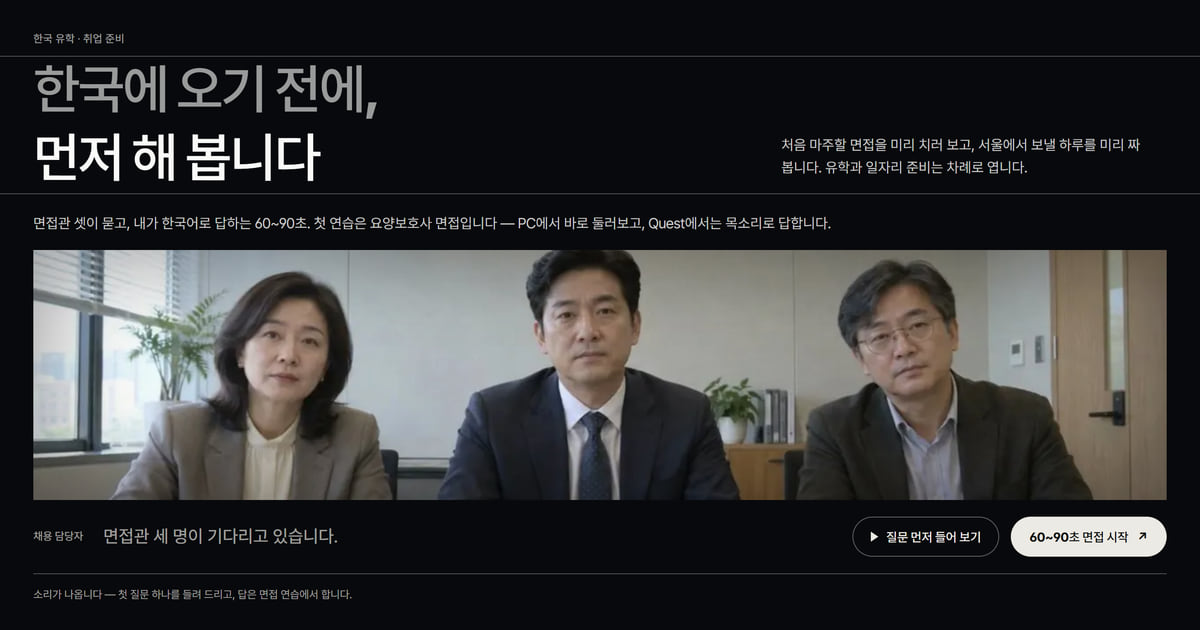
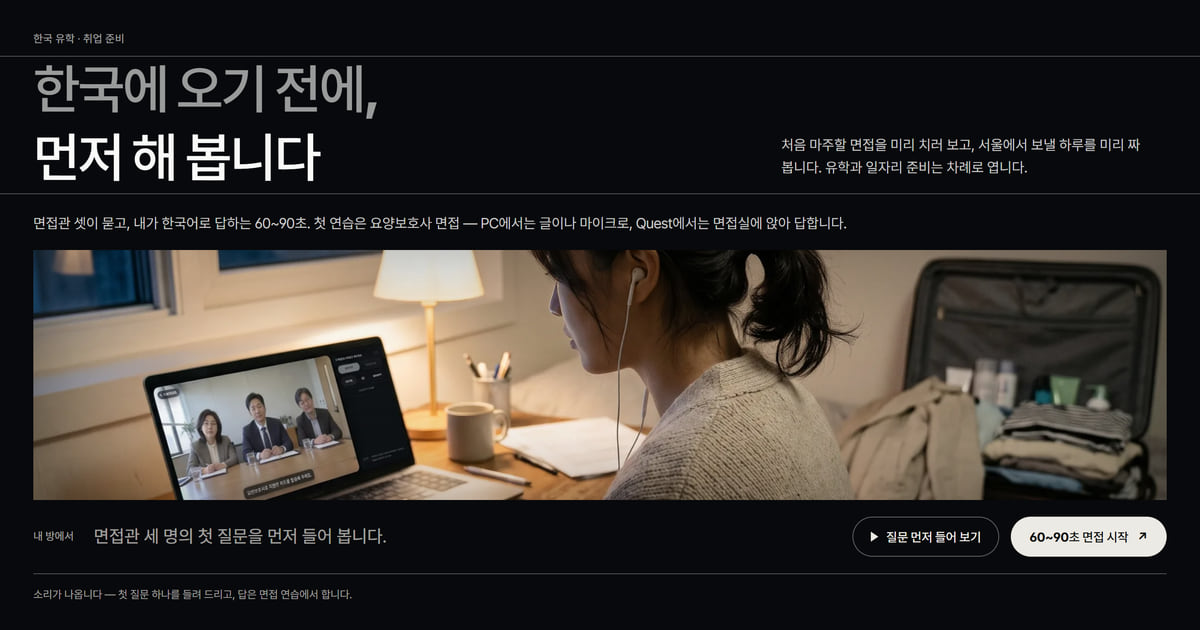
PATH 첫 화면 다음 판(11-14 · 앞 공개 fa0c009 검수 path-scene-1113b의 P2): 영어 면접 줄 · 쉬는 줄을 줄여 390에서 4줄 · 1줄, 1440에서 한 줄(공개 전과 같은 쪽 길이), 영어 그림 설명 「a young woman」, 공유 카드 path-ko · path-en을 새 첫 화면(「집에서 먼저」)으로 다시 굽고 og:image:alt를 맞춤(옛 카드는 면접관 셋의 정면 얼굴), 같은 카드를 빌려 쓰는 /try/travel/은 그림 주소 표식만. 높이 820px 이하 데스크톱 창은 무대가 3

diff --git a/en/path/index.html b/en/path/index.html
@@ -10,13 +10,13 @@
 <link rel="canonical" href="https://synk.im/en/path/">
 <link rel="alternate" hreflang="ko" href="https://synk.im/path/"><link rel="alternate" hreflang="en" href="https://synk.im/en/path/"><link rel="alternate" hreflang="x-default" href="https://synk.im/path/">
 <meta property="og:type" content="website"><meta property="og:url" content="https://synk.im/en/path/"><meta property="og:title" content="SYNK PATH — Before you come to Korea, try it first"><meta property="og:description" content="At SYNK PATH you rehearse the first interview you will face and plan a day in Seoul before you come. Caregiver interview practice and a day in Seoul are open now; study and job preparation open one at a time.">
-<meta property="og:image" content="https://synk.im/assets/v10/og/path-en.jpg?v=3c1f784cb390"><meta property="og:image:width" content="1200"><meta property="og:image:height" content="630"><meta property="og:image:alt" content="The SYNK PATH page: “Before you come to Korea, try it first” above three interviewers waiting at a meeting-room table"><meta name="twitter:card" content="summary_large_image">
+<meta property="og:image" content="https://synk.im/assets/v10/og/path-en.jpg?v=19de6ece8ee6"><meta property="og:image:width" content="1200"><meta property="og:image:height" content="630"><meta property="og:image:alt" content="The SYNK PATH page: “Before you come to Korea, try it first” above a young woman rehearsing the interview on a laptop in her own room"><meta name="twitter:card" content="summary_large_image">
 <link rel="icon" type="image/png" sizes="16x16" href="/assets/favicon-synk-20260919-16.png"><link rel="icon" type="image/png" sizes="32x32" href="/assets/favicon-synk-20260919-32.png"><link rel="icon" type="image/png" sizes="48x48" href="/assets/favicon-synk-20260919-48.png">
 <link rel="preload" href="/assets/v10/suit-v10.woff2" as="font" type="font/woff2" crossorigin>
 <link rel="stylesheet" href="/assets/v10/site.css?v=b67abdbcb510">
 <script>document.documentElement.classList.replace('no-js','js')</script>
 <script type="module" src="/assets/v10/site.js?v=cb64453758c6"></script>
-<link rel="stylesheet" href="/assets/v10/path-v12.css?v=47a7d3dbec42">
+<link rel="stylesheet" href="/assets/v10/path-v12.css?v=5e7a385a68a3">
 <script type="module" src="/assets/v10/path-v12.js?v=dc5017af64b5"></script>
 <link rel="stylesheet" href="/assets/v10/skeleton.css?v=2e2eb38a5b11">
 <script type="module" src="/assets/v10/skeleton.js?v=7dfcb83d9f77"></script>
@@ -36,12 +36,12 @@
 <div class="k-top"><h1 class="k-claim k-spec" id="p-title"><span class="dim">Before you come to Korea,</span> <span>try it first</span></h1>
 <p class="k-top-side" data-intro>Rehearse your first interview and plan a day in Seoul. Study-abroad and job preparation open next, one at a time.</p></div>
 <h2 class="sr-only" id="vr-title">Your first interview, here first</h2>
-<p class="k-body k-hero-line">Three interviewers ask and you answer in Korean: a 60–90 second practice. The first is a caregiver interview — type or speak your answers on a PC, or answer seated in the interview room on a Quest.</p>
-<div class="pa-stage" role="img" aria-label="The interview practice scene: before coming to Korea, she rehearses the interview on a laptop in her own room" data-stage><img class="pa-scene" src="/assets/v10/path-scene-home.webp" alt="" width="2048" height="1143" decoding="async" fetchpriority="high"><video class="pa-ask" playsinline preload="none" data-src="/path/assets/interview/film/strict-question-720p.mp4" aria-hidden="true"></video></div>
-<div class="pa-line"><span class="pa-who"><span class="pa-who-idle">In your room</span><span class="pa-who-ask">Recruiter</span></span><p class="pa-say is-wait" data-line aria-live="polite">First, hear the opening question from the three interviewers.</p>
+<p class="k-body k-hero-line">Three interviewers ask and you answer in Korean: a 60–90 second practice. The first is a caregiver interview — type or speak on a PC, or sit in the interview room on a Quest.</p>
+<div class="pa-stage" role="img" aria-label="Interview practice at home: before coming to Korea, a young woman rehearses the interview on a laptop in her own room" data-stage><img class="pa-scene" src="/assets/v10/path-scene-home.webp" alt="" width="2048" height="1143" decoding="async" fetchpriority="high"><video class="pa-ask" playsinline preload="none" data-src="/path/assets/interview/film/strict-question-720p.mp4" aria-hidden="true"></video></div>
+<div class="pa-line"><span class="pa-who"><span class="pa-who-idle">In your room</span><span class="pa-who-ask">Recruiter</span></span><p class="pa-say is-wait" data-line aria-live="polite">Start with the interviewers’ first question.</p>
 <div class="pa-acts"><button class="pa-btn pa-btn-ghost" type="button" data-hear hidden><span class="pa-tri" aria-hidden="true"></span>Hear the first question</button><a class="pa-btn pa-btn-ink" href="https://synk.im/path/interview/film/rehearsal.html">Start the interview (Korean) <span class="arr" aria-hidden="true">↗</span></a></div></div>
 <p class="pa-room-foot"><span>This plays sound — you hear one question here and answer it in the interview practice.</span></p>
-<script type="application/json" data-room>{"lang":"en","wait":"First, hear the opening question from the three interviewers.","question":"요양보호사로 지원한 이유를 말씀해 주세요.","gloss":"Tell us why you applied to be a caregiver.","after":"Now it is your turn — answer in Korean in the interview practice."}</script></div></section>
+<script type="application/json" data-room>{"lang":"en","wait":"Start with the interviewers’ first question.","question":"요양보호사로 지원한 이유를 말씀해 주세요.","gloss":"Tell us why you applied to be a caregiver.","after":"Now it is your turn — answer in Korean in the interview practice."}</script></div></section>
 <section class="pa-day k-pa-day" id="travel" aria-labelledby="plan-title" data-day><span id="path-visit" class="sr-only" aria-hidden="true"></span>
 <div class="pa-map" aria-hidden="true" data-map><div class="pa-sample"><svg class="pa-sample-map" viewBox="0 0 380.5 507.4" preserveAspectRatio="xMidYMid meet" aria-hidden="true" focusable="false"><path class="k" d="M238.5 446.3L266 438.6L318.6 422.7L312.8 398.9L309.2 382.2L303.1 355.4L300.2 337.5L284.1 336L273.7 303.9L249.8 310.4L240.5 313.1L238.8 313.5L240.2 318.3L246.2 338.1L247.4 342.2L211.9 353.4L238.5 446.3Z"/><path class="f" d="M31.5 253.7L36.2 266.9L40.1 270.7L42.8 280.9L51.4 279.7L59.3 282L61.9 289.7L100.3 282.6L107.2 316.4L117.6 337.5L122 342.8M6.9 259.7L4.5 233.8L-1.3 205.4M26.1 343.3L29.5 350L32.7 355.9L40.5 352.4L50.5 347.2L59.4 368.7M7.7 353.2L26.1 343.3M5.8 183.4L-10.9 188L-5 206.4L-1.3 205.4L24.1 196.8M5.6 -0.8L7.7 -5.4L12.1 -36.5L23.5 -77.8M317 -31.2L342 -30.9L339.1 -61.4L358.3 -62.3M40.8 0.2L35.6 -6L39.7 -51.3L51.2 -51L54.6 -68.3M227.9 407.2L221.5 408.4M227.9 407.2L234.7 405.4M-60 242.5L-138.2 257.3M-60 242.5L-55.8 254.6L-51.9 265.4L-46.9 279.2L-41.1 294.6L-20.6 287.3L-17 297.2L-6.3 293M-51.9 265.4L-79.7 274.8L-75.8 285.8L-70.5 287.6L-46.9 279.2M-55.8 254.6L-76.1 262.3L-83.9 265.1M-20.6 287.3L-24.1 276.7L-14.7 272.9M312 -78L307.9 -70.9L296.9 -66.8L296.8 -59.1L288.1 -59.2L286 -36.5M375 107.1L371 105.3L368 106.8L367.2 110.3L368.3 121.1L371 125.2L372.6 129.6L372.6 133.6L371.7 138.5L368.9 144L367.4 149.3L367.5 151.9L367.7 155.4L370.4 162.5L375.1 167L379.7 170L387.7 170.5L396.7 168.4L400.2 166.7L405.9 166.8L412.8 169L419.4 169.1L423.8 167.4L426 164.6L425.3 144.8L421.9 138.2L414.3 138.1L413.8 106.5L375 107.1M413.8 106.5L423.6 109.7M447.8 103.5L431.8 101.5M439.7 142.9L440.5 170.7L440.9 180.7L437.2 180.7L437.4 191.6L437.5 202.1L421.7 202L421.6 210.5M429.7 106.9L423.6 109.7M418.8 179L419.4 201.8L421.7 202M421.9 138.2L419.9 119.3L420.4 114.7L423.7 112.4L429.7 109.5M428.7 170.7L440.5 170.7M437.4 191.6L443.1 191.5L445 193.1L445.5 207.1L446.3 208.5L447.7 208.5L448.7 207L447.9 186.3L448.9 185.2L452.7 185M421.6 210.5L421.9 227.8M371 105.3L367.3 101.6L366.9 95.6M414.3 138.1L403.8 148L400.5 145.2L397.3 144.8L394.2 146.4L391.4 143.8L387.9 143.5L383.6 145.2L381.3 148L380.9 151.4L367.5 151.9M394.2 146.4L393.7 149.4M421.9 227.8L422.2 247.7M426 164.6L428.7 170.7M-74.4 -4.3L-31.5 -10.1L-34.1 -35.9L-28.4 -51L-68.8 -66.6L-79.8 -139.9M-110 -27.4L-77.5 -31L-34.1 -35.9M431.8 101.5L429.5 101.6L429.7 106.9L429.7 109.5L430 127.7L434.4 127.7L434.9 143.3L439.7 142.9M-41.1 294.6L-42.4 296.6L-56.4 301.8M-30.8 338.9L-32 339.3L-69.7 353L-78.3 356.1L-110.9 367.9M2.4 326.8L-22.1 335.7L-24.2 336.5M-24.2 336.5L-28.4 338L-30.8 338.9M-32 339.3L-28.1 349.3L-25 351.5L-19.7 357.4L-13.6 374.5L-13.8 375.7L-46.8 391.4L-50 391.3L-76 371.7M-22.1 335.7L-23.2 332.6M-22.1 335.7L-21 339M-46.8 391.4L-78.2 406.2L-81.5 406.6L-88.6 405.1M121 587.8L122.1 587.1L129.5 580.6L130 579.7L131.3 577.3L136.8 573.3L144.1 569.4L144.5 567.6L143 563.8L137.3 565.1L134.5 557.6L137.9 554.5L136 553.3L134 554.2L131.6 547.9L130.7 549.3L130.1 551.8L130.7 554L131.4 558.2L131.1 565.6L126.4 567.8L125.7 569.9L127.6 575.7L130 579.7M131.6 547.9L129.8 535.8"/><path class="m" d="M-89.9 457.6L-58.6 479.4L-27.6 524.6L-25.6 527.9L-4.2 554.2L-0.4 558.2L25.7 582.5L32.2 587.4L46.1 600.7L50.3 604.5L71.6 623.5L81.7 633.8L94 644.7L110.4 657.5L122.1 668.2L150.8 692L159.2 698.5L170.5 711.1L174.5 715.8L187.6 736.7L203.9 760.8L214.5 779.5L231.7 818.4L239.8 838.9L241.8 843.5L255.8 878L257 880.4L257.3 881.3L258 882.8L262.9 893.3L270.4 907.8L281.4 930.2L286.4 934.5L292.8 937L298 937.4L307.9 937.7M-17.5 265.7L6.9 259.7L31.5 253.7L44.5 250.5L85.1 240.5L94.4 242.2L101.6 243L103.6 243.3L152.6 231.5M-81.6 74.2L-50.3 156.2L-31.5 217.7L-26.8 233.2L-17.5 265.7L-14.7 272.9L-6.3 293L-2.5 302.5L-2 304.8L2.4 326.8L7.7 353.2L11.4 376.2L21.8 401M81.7 633.8L89.2 631.4L132 603L148.6 590.6L162.1 582.3L193 573.6L230 563.3L255.4 556.3M246.7 496.2L389.2 468L399.8 465.9L415.5 462.6L454.4 453.3L460.7 452.1L493.9 449.1L521.1 446.8L548 444.6L574.8 438.5M137.4 190.7L145.1 191.3L149.3 191.6L169.1 191.1L201.7 189.3L234 187.6M32.2 587.4L38.7 583.7L56 577.1L88.7 560.9M-25.6 527.9L-17 525.1L-3.8 513.1L15.8 502.8L32.3 494.7L43.2 495.1M-91 418.7L-80.3 422.2L-55.6 430.2M76.7 527.1L88.7 560.9L98 578.4M242.8 -387.8L243.7 -353.9L243.1 -321.1L241.7 -295L240.2 -286.9L238.9 -259.6L238.9 -227.4L238.1 -205.6L235.8 -181.6L235.3 -165.6L236.6 -144.2L234.7 -110.7L234 -95.5L233.5 -86.2L232.2 -71.4L230.2 -33L231.1 -2.8L230.7 28.4M78.8 37.2L62.9 33.4L48.1 30.9L-7.2 21.4L-29.5 20.1L-35.4 18.9M82 -52.5L132.4 -50.6L133.2 -74L138 -75.4L143.4 -74.8L157.2 -75.5L164.1 -81.9L165.3 -89.3L175.2 -90.4L185.6 -88.2L189.3 -87.1L196.9 -84.8M230.2 -33L286 -36.5L315.3 -38.3L317 -31.2L316.5 -3.4L315.9 28.9M329.9 27.6L357.9 -29.9L358.3 -62.3L356.9 -81.9L383 -82.5M331.2 329.9L298.6 331.1L295.5 324.5L292.3 315.7L288.4 254.2M-58.6 479.4L-54 477.1L-34.5 468.4L-29 469.4L-21.1 467.4M43.2 495.1L46.5 494.1L47 499.8L60.5 498.1M102.6 477.8L116.3 512M43.2 495.1L38.9 448.8L21.8 401M15.8 502.8L0.2 456.8L5.5 454.4L-5.1 412.7M-4.2 554.2L16.1 541.5L34.8 537.4L52.8 533.9L76.7 527.1L101.2 518.1L116.3 512L125.5 537M88.7 560.9L101.1 554.9L104.5 561.4M392.4 -147.3L395.3 -136.7L396.8 -128.4L400.9 -118.4L404.2 -114.3L407.4 -110.6L407.5 -100L402.6 -82.1L410.8 -50L393.7 -46.2L390.3 -46.2L388.3 -61L383 -82.5L382.9 -93L384.4 -106.4L386.9 -136.1L392.4 -147.3L393.9 -159.4L403.5 -179L413.1 -198.8M366.9 95.6L448.4 93.6M316.5 -3.4L231.1 -2.8M127.4 162.8L168.5 163.1M169 153.9L168.5 163.1L169.1 191.1M403.9 395.7L403.8 403.9L403 423.1L399.8 465.9M403.8 403.9L423.9 403.2L424.1 389.3M389.2 468L399 524.3L429.2 520.4L431.7 533.6L432.9 548.1L428.7 553.7L442.9 556.6L465.3 551.7L467.4 564.3M232.7 147.8L245.6 148.3L269.7 147.8L283.6 147.5L285.2 147.5L300.7 147.2L341.9 146.4L351.8 146.3L354.5 147.8L355.9 149.8L357.4 215.1L357.8 248.8M80.6 -2.3L40.8 0.2L5.6 -0.8L-11 -0.3L-35.4 18.9M92.6 192.7L112.5 185.7M72.9 138.2L93.6 131M103.3 159.9L93.6 131L85.3 110.2L83.2 108.2L80.4 107.6L63.5 112.8L55.6 115.3L26.4 123.7M193 573.6L174.9 529.8L205.3 519.5L204.4 514.9L234 499.4M52.8 533.9L56.7 522.8L56.7 504.4L58.4 500.9L60.5 498.1M-35.4 18.9L-72.5 14.2L-149.2 8.3L-163.6 1L-187.6 -7.4L-196 -11.2L-212.7 -17.8L-226 -22.4L-262.2 -31.6L-291.2 -38.1L-363.2 -52.3L-368.7 -54.3L-373.2 -55.4M-35.4 18.9L-81.6 74.2M258.7 266.8L264.1 286.9L267.6 299.3L255.3 302.7L251.9 290.3L264.1 286.9M-0.4 558.2L-14.7 565.5M-27.6 524.6L-42.3 532.9M-21.1 467.4L-9.6 503.9L-7.1 506L-3.8 513.1M60.5 498.1L62 488.4L102.6 477.8M428.7 553.7L433.6 575.1L436.4 606.1M103.2 89.1L90.7 93.3L49.9 99.1L41.7 98.5L36.8 96.7L34.5 94.2L33 92.1L32.8 81.6L34.4 72.8L19.4 69.6L-29.5 20.1M302.2 215.8L302.7 251.8M235 217L302.2 215.8L357.4 215.1M230.7 28.4L230.6 58.4L232.7 147.8L234 187.6L235 217M235 217L238.7 241L240.2 253.6L245.6 272.8M234.1 252.4L234.6 256.1L234.1 259.1L209.3 276.5L195.9 283.5L191.1 284L185.8 281L145.1 191.3L149.3 191.6L150.1 193.7L153.7 201.6L159.4 214.2L160.7 217L165 226.5L168.4 234.2L168.9 235.3L170.7 239.3L183.9 268.9L186.2 274.2L190.8 275.3L197.1 271.6L197.5 272.3L198.9 274.6L210.7 267.6L211.6 267.1L212.5 266.5L232 253.7L234.1 252.4M269.3 125.3L269.7 147.8M230.6 58.4L241.8 58.2M34.4 72.8L39.3 73.1M39.3 73.1L41.5 52.7L48.1 30.9M285.2 147.5L285.3 52.6L287.2 49.5L289.4 48.5L296.6 48.5L298.5 49.5L300.3 51.8L300.7 147.2M92.6 192.7L72.9 138.2L63.5 112.8M103.3 159.9L112.5 185.7M123.5 153.3L103.3 159.9M405.5 272.7L446.1 272.6L446.2 289.4M405.1 248L405.5 272.7L405.5 291.6M139.6 509.8L146 523L168.1 519.4L166.5 506.5L139.6 509.8M-26.8 233.2L-49.8 239.7L-60 242.5M-31.5 217.7L-47.2 217.6L-50.7 218.8L-51.6 220.6L-51.6 222.1L-49.8 239.7M101.2 518.1L104.8 528.6M292.3 315.7L337.2 313.8"/><path class="M" d="M21.8 401L28.6 397.8L63.4 380.4L122 342.8L157.6 324.4L174.3 313.3L184.3 307.1M184.3 307.1L185.4 324.4L189.3 347.8L204.6 399.1L208.4 414.4L212.6 429.4L218.3 448.3L234 499.4L255.4 556.3L269.7 591L310.4 676.6M-20.2 420.1L-42.4 425.7L-55.6 430.2L-82.2 438.4L-90.7 440.4L-101.4 441.3M230.7 28.4L206 28.5L144.4 42L111.8 52L94 59.3M388.3 27.6L405.6 31.9L456.7 38.9M198.1 299.4L245.6 272.8L258.7 266.8L274 260.3L281.4 256.6L288.4 254.2L302.7 251.8L321.8 251L357.8 248.8L405.1 248L422.2 247.7L445.9 247.9L460.8 247.6L485.8 248L491.1 249L523.7 249.2L530.5 248.6M230.7 28.4L315.9 28.9L329.9 27.6L388.3 27.6M456.5 26.9L404.6 24.6L388.3 27.6M-89.9 457.6L-79 454.7L-58.4 446.9L-41.5 437L-31.4 430.9L-20.2 420.1M322.6 677.4L319.8 670.8L290.4 600.7L285.3 588.6L257.6 527.9L246.7 496.2L233.6 449.7L223.7 415.5L221.5 408.4L202.6 342.3L196.7 320.9L184.3 307.1M184.3 307.1L179.8 300.1L174.4 285.7L152.6 231.5L137.4 190.7L127.4 162.8L123.5 153.3L115.7 127.9L103.2 89.1L94 59.3L86.8 44L78.8 37.2L80.3 23.8L80.6 -2.3L82 -52.5L82.2 -63.3L83.8 -112.6L84.1 -152.8L85.1 -185.3L85.4 -207.4L86.4 -245.3L89.8 -328.5L90.3 -357.4L91.3 -416.6M-20.2 420.1L-5.1 412.7L21.8 401M184.3 307.1L198.1 299.4"/><path class="rc" data-route d="M114.1 344.6L117.6 337.5L122 342.8L157.6 324.4L174.3 313.3L184.3 307.1L196.7 320.9L202.6 342.3L221.5 408.4L227.9 407.2L234.7 405.4L266.4 386.3L266.4 386.3L234.7 405.4L227.9 407.2L221.5 408.4L202.6 342.3L196.7 320.9L184.3 307.1L198.1 299.4L245.6 272.8L240.2 253.6L238.7 241L226.7 231.3L226.7 231.3L238.7 241L235 217L234 187.6L232.7 147.8L230.6 58.4L204.9 58.5"/><path class="r" data-route d="M114.1 344.6L117.6 337.5L122 342.8L157.6 324.4L174.3 313.3L184.3 307.1L196.7 320.9L202.6 342.3L221.5 408.4L227.9 407.2L234.7 405.4L266.4 386.3L266.4 386.3L234.7 405.4L227.9 407.2L221.5 408.4L202.6 342.3L196.7 320.9L184.3 307.1L198.1 299.4L245.6 272.8L240.2 253.6L238.7 241L226.7 231.3L226.7 231.3L238.7 241L235 217L234 187.6L232.7 147.8L230.6 58.4L204.9 58.5"/></svg><div class="pa-sample-pins"><span class="sp-pin is-origin is-left" style="left:29.99%;top:67.92%"><span class="sp-mk"></span><span class="sp-tag"><span lang="ko">안국역</span> 10:00</span></span><span class="sp-pin is-left" style="left:70.01%;top:76.14%"><span class="sp-ic"><img src="/assets/v10/path-felt-palace.webp" alt="" width="128" height="100" loading="lazy" decoding="async"><span class="sp-n">1</span></span><span class="sp-tag"><b><span lang="ko">운현궁</span></b><span>10:08</span></span></span><span class="sp-pin is-left" style="left:59.57%;top:45.59%"><span class="sp-ic"><img src="/assets/v10/path-felt-tea.webp" alt="" width="128" height="128" loading="lazy" decoding="async"><span class="sp-n">2</span></span><span class="sp-tag"><b><span lang="ko">어니언 안국</span></b><span>11:02</span></span></span><span class="sp-pin is-plain is-left" style="left:53.83%;top:11.54%"><span class="sp-mk">3</span><span class="sp-tag"><b><span lang="ko">북촌 한옥마을</span></b><span>12:00</span></span></span></div></div><svg class="pa-live" data-map-svg preserveAspectRatio="none"></svg><div class="pa-pins" data-pins></div></div>
 <div class="pa-day-in"><div class="pa-copy"><p class="k-rule"><span>A day in Seoul · free</span></p>

diff --git a/path/index.html b/path/index.html
@@ -10,13 +10,13 @@
 <link rel="canonical" href="https://synk.im/path/">
 <link rel="alternate" hreflang="ko" href="https://synk.im/path/"><link rel="alternate" hreflang="en" href="https://synk.im/en/path/"><link rel="alternate" hreflang="x-default" href="https://synk.im/path/">
 <meta property="og:type" content="website"><meta property="og:url" content="https://synk.im/path/"><meta property="og:title" content="SYNK PATH — 한국에 오기 전에, 먼저 해 봅니다"><meta property="og:description" content="SYNK PATH에서는 처음 마주할 면접을 미리 치러 보고, 서울에서 보낼 하루를 미리 짜 봅니다. 요양보호사 면접 연습과 서울 하루는 지금 써 볼 수 있고, 유학과 일자리 준비는 차례로 엽니다.">
-<meta property="og:image" content="https://synk.im/assets/v10/og/path-ko.jpg?v=0c5a2dcf731d"><meta property="og:image:width" content="1200"><meta property="og:image:height" content="630"><meta property="og:image:alt" content="SYNK PATH 첫 화면 — 「한국에 오기 전에, 먼저 해 봅니다」와 회의실 탁자 앞에서 기다리는 면접관 세 명"><meta name="twitter:card" content="summary_large_image">
+<meta property="og:image" content="https://synk.im/assets/v10/og/path-ko.jpg?v=f4326ed84f65"><meta property="og:image:width" content="1200"><meta property="og:image:height" content="630"><meta property="og:image:alt" content="SYNK PATH 첫 화면 — 「한국에 오기 전에, 먼저 해 봅니다」와 한국에 오기 전 자기 방에서 노트북으로 면접을 연습하는 사람"><meta name="twitter:card" content="summary_large_image">
 <link rel="icon" type="image/png" sizes="16x16" href="/assets/favicon-synk-20260919-16.png"><link rel="icon" type="image/png" sizes="32x32" href="/assets/favicon-synk-20260919-32.png"><link rel="icon" type="image/png" sizes="48x48" href="/assets/favicon-synk-20260919-48.png">
 <link rel="preload" href="/assets/v10/suit-v10.woff2" as="font" type="font/woff2" crossorigin>
 <link rel="stylesheet" href="/assets/v10/site.css?v=b67abdbcb510">
 <script>document.documentElement.classList.replace('no-js','js')</script>
 <script type="module" src="/assets/v10/site.js?v=cb64453758c6"></script>
-<link rel="stylesheet" href="/assets/v10/path-v12.css?v=47a7d3dbec42">
+<link rel="stylesheet" href="/assets/v10/path-v12.css?v=5e7a385a68a3">
 <script type="module" src="/assets/v10/path-v12.js?v=dc5017af64b5"></script>
 <link rel="stylesheet" href="/assets/v10/skeleton.css?v=2e2eb38a5b11">
 <script type="module" src="/assets/v10/skeleton.js?v=7dfcb83d9f77"></script>

diff --git a/try/travel/index.html b/try/travel/index.html
@@ -12,13 +12,13 @@
 <meta property="og:url" content="https://synk.im/try/travel/">
 <meta property="og:title" content="나에게 맞는 서울의 하루 · SYNK PATH">
 <meta property="og:description" content="하고 싶은 것과 쓸 시간만 고르면, 서울 종로의 실제 장소로 하루를 짜 드려요.">
-<meta property="og:image" content="https://synk.im/assets/v10/og/path-ko.jpg?v=0c5a2dcf731d">
+<meta property="og:image" content="https://synk.im/assets/v10/og/path-ko.jpg?v=f4326ed84f65">
 <meta property="og:image:width" content="1200"><meta property="og:image:height" content="630">
 <meta property="og:image:alt" content="SYNK PATH 첫 화면 — 「한국에서 공부하고 일하며 사는 길을, 함께 준비합니다」와 종로 · 북촌 길 위에 그린 서울 하루 동선">
 <meta name="twitter:card" content="summary_large_image">
 <meta name="twitter:title" content="나에게 맞는 서울의 하루 · SYNK PATH">
 <meta name="twitter:description" content="하고 싶은 것과 쓸 시간만 고르면, 서울 종로의 실제 장소로 하루를 짜 드려요.">
-<meta name="twitter:image" content="https://synk.im/assets/v10/og/path-ko.jpg?v=0c5a2dcf731d">
+<meta name="twitter:image" content="https://synk.im/assets/v10/og/path-ko.jpg?v=f4326ed84f65">
 <link rel="icon" href="./assets/logo-synk.webp" type="image/webp">
 <link rel="stylesheet" href="./synk-account/src/account-notebook.css"><link rel="stylesheet" href="./planner.css"><script type="module" src="./planner-ui.mjs"></script>
 </head>

diff --git a/assets/v10/path-v12.css b/assets/v10/path-v12.css
@@ -126,6 +126,9 @@ html[lang="en"] .pa-h1{font-size:clamp(30px,2.9vw,41px)}
 /* 무대 그림 「집에서 먼저」(11-13, 유호님 「이 방향으로」): 면접관 셋이 정면을 보는 듣기 영상 자리. 질문 영상(.pa-ask)은 그 위에 온다.
    중요한 것은 그림 높이 28~76% 띠에 모아 구웠다 — 넓은 무대(1440에서 1360×380)에서 그 띠가 보이게 */
 .pa-stage .pa-scene{position:absolute;inset:0;width:100%;height:100%;object-fit:cover;object-position:50% 58%}
+/* 낮은 데스크톱 창(높이 820px 이하 — 1366×768 · 1536×864 · 브라우저 막대가 있는 1440×900)은 무대가 300px 띠(skeleton.css clamp 아래끝)라 58%면
+   그림 높이 0.35~0.75만 보여 사람 머리가 귀 위로 잘린다 — 45%로 올려 0.27~0.67(뒷머리 · 귀 · 턱 · 노트북 화면)을 보인다(11-13 공유 카드 굽기에서 찾음) */
+@media (min-width:901px) and (max-height:820px){.pa-stage .pa-scene{object-position:50% 45%}}
 /* 꼬리표: 쉬는 동안 「내 방에서」, 질문 영상이 도는 동안(.pa-stage.is-asking)은 옛 꼬리표(채용 담당자 · Recruiter) */
 .pa-who-ask{display:none}
 .pa-stage.is-asking+.pa-line .pa-who-idle{display:none}
